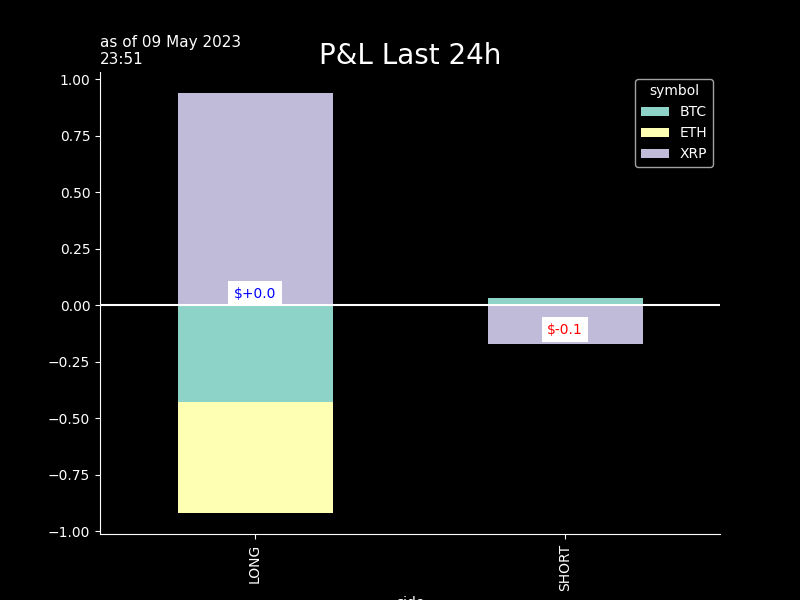
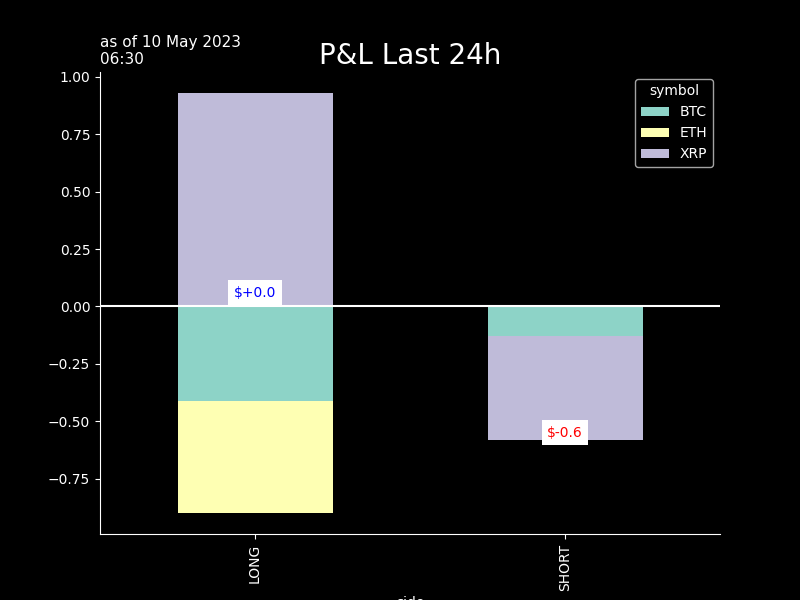
seb_commit

diff --git a/crypto/graphs/bt_trades_book.htmltrade_trades_book.html b/crypto/graphs/bt_trades_book.htmltrade_trades_book.html
@@ -37,55 +37,38 @@
   </thead>
   <tbody>
     <tr>
-      <th>XRPUSDT</th>
-      <td>0.4254</td>
-      <td>2023-05-09 22:34:29</td>
-      <td>-427.800</td>
-      <td>$-182.0</td>
-      <td>$0.04</td>
-      <td>2.0</td>
-      <td>0.9</td>
-      <td>0.42595</td>
-      <td>2023-05-09 23:31</td>
-      <td>-0.2</td>
-      <td>-13.0</td>
-      <td>.4256</td>
-      <td>-0.1</td>
-      <td>-5.0</td>
-    </tr>
-    <tr>
       <th>BTCUSDT</th>
-      <td>27527.7000</td>
-      <td>2023-05-09 22:34:20</td>
-      <td>-0.006</td>
-      <td>$-165.2</td>
-      <td>$0.07</td>
-      <td>4.0</td>
-      <td>-0.4</td>
-      <td>27539.35000</td>
-      <td>2023-05-09 23:31</td>
+      <td>27659.2000</td>
+      <td>2023-05-10 05:28:51</td>
+      <td>0.001</td>
+      <td>$27.7</td>
+      <td>$0.01</td>
+      <td>2.0</td>
       <td>-0.1</td>
-      <td>-4.0</td>
-      <td>27532.9</td>
+      <td>27654.55000</td>
+      <td>2023-05-10 06:26</td>
       <td>-0.0</td>
-      <td>-2.0</td>
+      <td>-0.0</td>
+      <td>27662.4</td>
+      <td>0.0</td>
+      <td>0.0</td>
     </tr>
     <tr>
-      <th>ETHUSDT</th>
-      <td>1840.9800</td>
-      <td>2023-05-09 22:34:47</td>
-      <td>-0.078</td>
-      <td>$-143.6</td>
-      <td>$0.03</td>
+      <th>XRPUSDT</th>
+      <td>0.4307</td>
+      <td>2023-05-10 05:29:42</td>
+      <td>84.400</td>
+      <td>$36.4</td>
+      <td>$0.01</td>
       <td>2.0</td>
       <td>-0.5</td>
-      <td>1841.49500</td>
-      <td>2023-05-09 23:31</td>
+      <td>0.42975</td>
+      <td>2023-05-10 06:26</td>
+      <td>-0.1</td>
+      <td>-22.0</td>
+      <td>.4306</td>
       <td>-0.0</td>
       <td>-3.0</td>
-      <td>1841.08</td>
-      <td>-0.0</td>
-      <td>-1.0</td>
     </tr>
   </tbody>
 </table>

diff --git a/crypto/graphs/bt_trades_recap.htmltrade_trades_recap.html b/crypto/graphs/bt_trades_recap.htmltrade_trades_recap.html
@@ -9,33 +9,33 @@
   <tbody>
     <tr>
       <th>as of</th>
-      <td>09May 22:34&gt;&gt;22:34</td>
-      <td>#trades: 3</td>
+      <td>10May 05:28&gt;&gt;05:29</td>
+      <td>#trades: 2</td>
     </tr>
     <tr>
       <th>trade net</th>
-      <td>-491.0</td>
-      <td>-169.3%</td>
+      <td>+64.0</td>
+      <td>+22.1%</td>
     </tr>
     <tr>
       <th>trade gross</th>
-      <td>+491.0</td>
-      <td>+169.3%</td>
+      <td>+64.0</td>
+      <td>+22.1%</td>
     </tr>
     <tr>
       <th>BUY</th>
+      <td>+64.0</td>
+      <td>+22.1%</td>
+    </tr>
+    <tr>
+      <th>SELL</th>
       <td>+0.0</td>
       <td>+0.0%</td>
     </tr>
     <tr>
-      <th>SELL</th>
-      <td>-491.0</td>
-      <td>-169.3%</td>
-    </tr>
-    <tr>
       <th>fees</th>
-      <td>$ 0.131</td>
-      <td>2.67bp</td>
+      <td>$ 0.013</td>
+      <td>2.0bp</td>
     </tr>
   </tbody>
 </table>

diff --git a/crypto/graphs/bt_trades_pnlD_recap.htmltrade_trades_pnlD_recap.html b/crypto/graphs/bt_trades_pnlD_recap.htmltrade_trades_pnlD_recap.html
@@ -1,7 +1,7 @@
 <table border="1" class="dataframe">
   <thead>
     <tr style="text-align: right;">
-      <th>09 May 23:34</th>
+      <th>10 May 06:29</th>
       <th>realizedPnl</th>
       <th>PnLvsArrival</th>
       <th>PnLvsLast</th>
@@ -10,21 +10,21 @@
   <tbody>
     <tr>
       <th>in$</th>
-      <td>0.0</td>
-      <td>-0.3</td>
+      <td>-0.6</td>
       <td>-0.1</td>
+      <td>-0.0</td>
     </tr>
     <tr>
-      <th>in bp 490 traded</th>
-      <td>1 bp</td>
-      <td>-7 bp</td>
-      <td>-3 bp</td>
+      <th>in bp 64 traded</th>
+      <td>-91 bp</td>
+      <td>-12 bp</td>
+      <td>-2 bp</td>
     </tr>
     <tr>
       <th>in bp 289 AUMs</th>
-      <td>1 bp</td>
-      <td>-12 bp</td>
-      <td>-4 bp</td>
+      <td>-20 bp</td>
+      <td>-3 bp</td>
+      <td>-0 bp</td>
     </tr>
   </tbody>
 </table>
